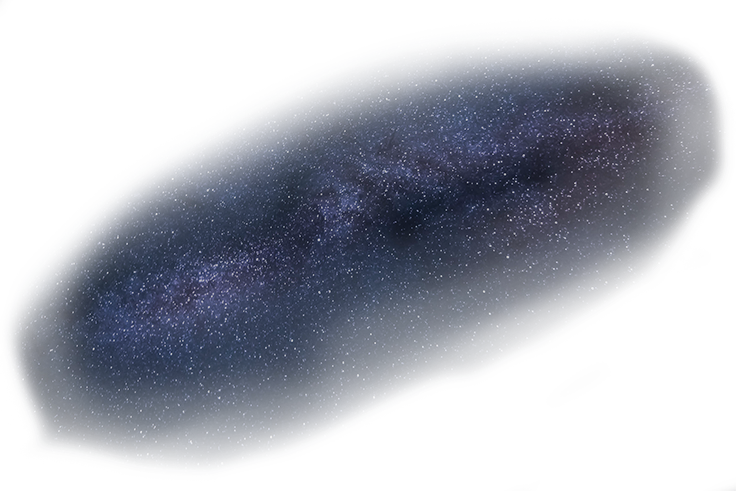
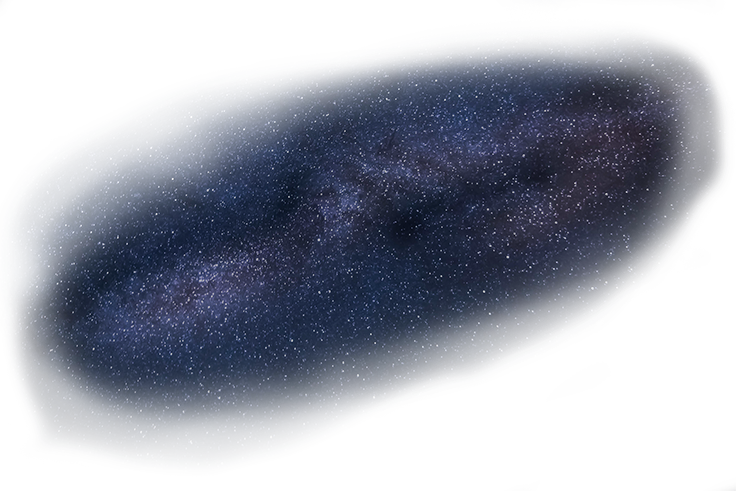
Created placeholder texts. Reworked spacebg

Changed region(s): [[0.0, 0.0916, 0.9375, 0.947]]

diff --git a/screens/Home.js b/screens/Home.js
@@ -11,6 +11,8 @@ import { Component,
   Easing,
   Dimensions} from 'react-native';
 
+const Window = Dimensions.get('window');
+
 export default class Home extends React.Component {
   constructor(props) {
     super(props);
@@ -122,7 +124,7 @@ export default class Home extends React.Component {
   }
 
   isMilkyWayDropZone(gesture){ //Check if in 'drop zone'
-    return ((Math.abs(gesture.dy) > Window.height/4.5) || (Math.abs(gesture.dx) > Window.height/4.5));
+    return ((Math.abs(gesture.dy) > Window.height/5) || (Math.abs(gesture.dx) > Window.height/5));
   }
 
   // setDropZoneValues(event){ //Callback to set values
@@ -317,6 +319,18 @@ export default class Home extends React.Component {
 
             {/* {this.dropZoneLoad()} */}
             
+            <Text style={styles.galaxyText}>
+              Galaxy
+            </Text>
+
+            <Text style={styles.moonText}>
+              Moon
+            </Text>
+
+            <Text style={styles.earthText}>
+              Earth
+            </Text>
+            
             {this.state.milkyWayVisible && this.renderMilkyWay()}
             {this.state.moonVisible && this.renderMoon()}
             {this.state.earthVisible && this.renderEarth()}
@@ -329,17 +343,36 @@ export default class Home extends React.Component {
 }
 
 //css
-const Window = Dimensions.get('window');
 const styles = StyleSheet.create({
     mainContainer: {
       flex    : 1
     },
     dropZone    : {
       height         : 0,
-      //backgroundColor:'#2c3e50'
     },
-    text        : {
-
+    galaxyText        : {
+      position: 'absolute',
+      color : 'white',
+      fontSize: Window.width/11,
+      top         : (Window.height/6 - Window.height/5 / 2) + Window.height/9,
+      left        : (Window.width/3 - Window.height/5 / 2) + Window.width/5.5,
+      // fontFamily: 'sans-serif'
+    },
+    moonText        : {
+      position: 'absolute',
+      color : 'white',
+      fontSize: Window.width/11,
+      top         : (Window.height/5*2 - Window.height/5 / 5) + Window.height/13,
+      left        : (Window.width/3*2 - Window.height/5 / 2) + Window.height/20,
+      // fontFamily: 'sans-serif'
+    },
+    earthText        : {
+      position: 'absolute',
+      color : 'white',
+      fontSize: Window.width/11,
+      top         : (Window.height-(Window.width/2) - Window.width/5) + Window.height/13,
+      left        : Window.width/2 - Window.width/11,
+      // fontFamily: 'sans-serif'
     },
     background     : {
       height: Window.height,
@@ -351,7 +384,7 @@ const styles = StyleSheet.create({
     },
     draggableMoonContainer: {
       position    : 'absolute',
-      top         : Window.height/5*2 - Window.height/5 / 2,
+      top         : Window.height/5*2 - Window.height/5 / 5,
       left        : Window.width/3*2 - Window.height/5 / 2,
     },
     draggableEarthContainer: {
@@ -373,7 +406,7 @@ const styles = StyleSheet.create({
       width : Window.width + Window.width/10
     },
     milkyWay   : {
-      height : Window.height/4.5,
-      width : Window.height/4.5
+      height : Window.height/3.5,
+      width : Window.height/3.5
     },
 });
